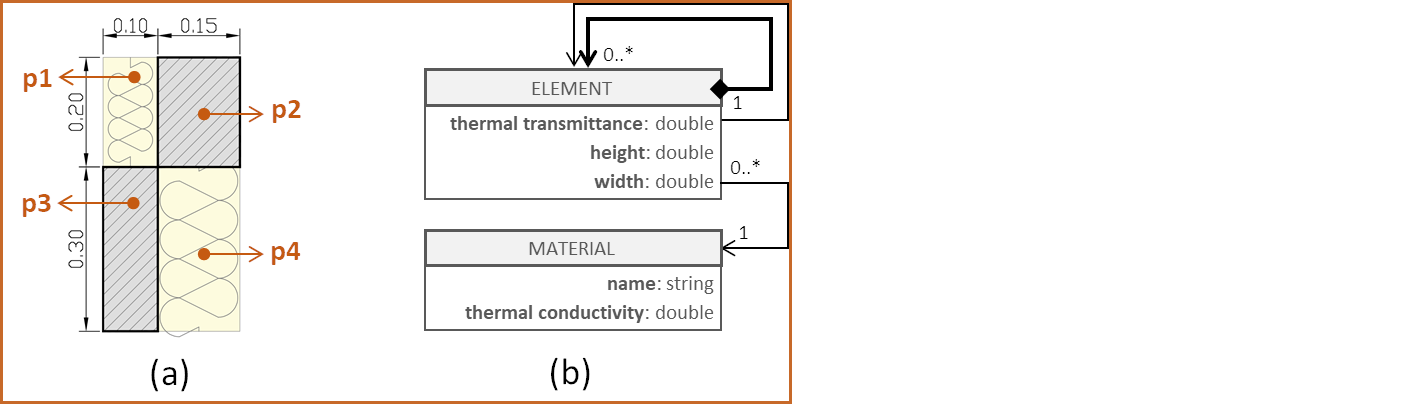
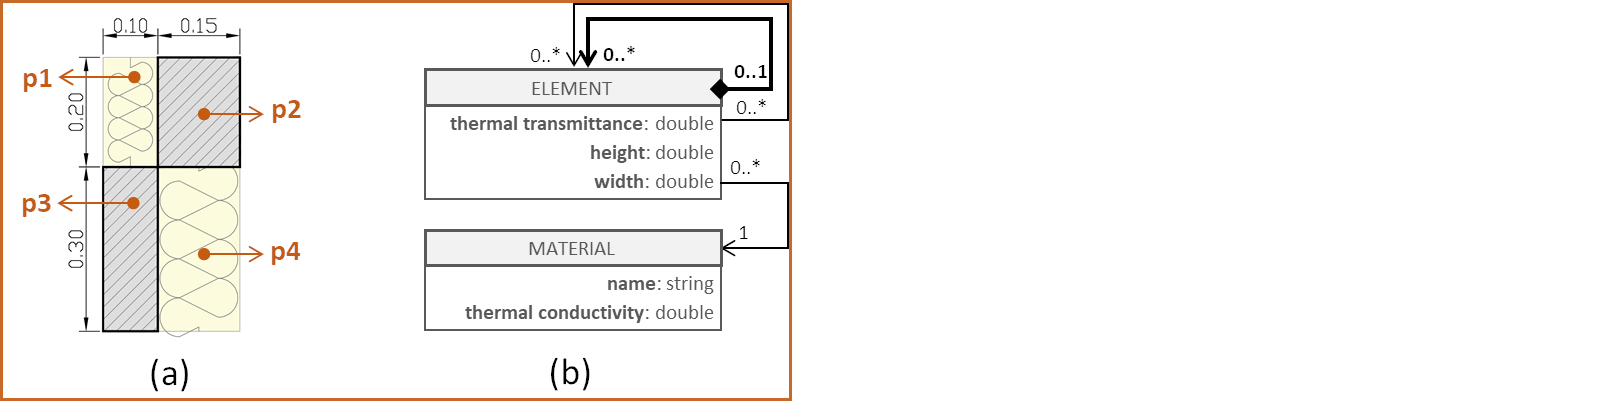
Update of UC4 and images for the others

diff --git a/README.md b/README.md
@@ -5,17 +5,15 @@ This document contains additional data supporting the Paper “Digitalising Guid
 
 It is to be noted that Section 6.7.2 describes a simplified method for the calculation of the total thermal resistance of a building component. This method is based on one typical part of the component, not on the entire component. For detailed calculations taking thermal bridges into account there is the ISO 10211. 
 
-![Walls](/UC/UC0_walls_.png)
-
+![Walls](UC/UC0_walls.png)
 *Fig.1. Typical wall footprints: (a) massive timber with an insulation layer, (b) acoustically decoupled wall with armed concrete inner shell, timber outer shell, and mineral wool as thermal insulation and acoustic dampener.*
 
 Fig.1 demonstrates the difference between the entire construction, e.g., wall, and a representative, or typical, part. For example, Fig.1(a) shows a 0.40m section of the wall that contains both a timber column and the insulation between two columns. This section represents the inhomogeneous layer with the correct ratio of materials, which is enough for the application of the guideline. Fig.1(b) shows a more complex construction with three inhomogeneous layers. The representative section here is larger, 1.00m long, since it requires all combinations of inhomogeneities to be accounted for.
 
-![Wall decomposition](/UC/UC0_wall_decomposition_.png)
+![Wall decomposition](UC/UC0_wall_decomposition.png)
+*Fig.2. Wall decomposition: (a) in typical sections, (b) in geometric profiles, (c) in cells according to ISO 6946:2017, Section 6.7.2.*
 
-*Fig.2. Wall decomposition: (b) in geometric profiles, (c) in cells according to ISO 6946:2017, Section 6.7.2.*
-
-The next question is one of modelling. Fig.2 shows the different ways the wall from Fig.1(b) can be decomposed into model elements. The model in Fig.2(b) groups adjacent elements of the same material, while the model in Fig.2(c) decomposes the typical section in layers and sections in accordance with ISO 6946:2017, Section 6.7.2.2, Figure 1. Consequently, the two approaches produce models of vastly different sizes.
+The next question is one of modelling. Fig.2 shows the different ways the wall from Fig.1(b) can be decomposed into model elements. The model in Fig.2(b) groups adjacent elements of the same material, while the model in Fig.2(c) decomposes the typical section in layers and sections in accordance with ISO 6946:2017, Section 6.7.2.2, Figure 1. Consequently, the two approaches produce models of vastly different structure and size.
 
 However, a model resulting from Fig.2(b) can be adapted to fulfil the requirements of the model resulting from Fig.2(c). We will demonstrate this by applying the template we presented in the referenced paper (see also Fig.3) to the following four use cases:
 - **Use Case 1**: Very small generic data model, allowing significant modification. A step-by-step application.
@@ -24,59 +22,83 @@ However, a model resulting from Fig.2(b) can be adapted to fulfil the requiremen
 - **Use Case 4**: IFC, simple example, allowing modification.
 
 
-![Templates](/UC4/iso6946_templates.png)
-*Fig.3. The applicable templates as constructed in the accompanying paper.*
+![Templates](UC4/iso6946_templates.png)
+*Fig.3. The applicable template as constructed in the accompanying paper.*
 
-### Use Case 1: A Step By Step Application of ISO 6946:2017, Section 6.7.2
+The application of templates (see Fig.3) proceeds as follows:
+- [x] Each template element is applied to a small representative part of the model **manually**.
+- [x] An *application model* is built in the background **automatically**.
+- [x] During model updates, the template is applied as needed **automatically** by utilizing the implicit rules supplied by the user during the manual step. Those rules reside in the application model.
+- [x] During model updates, if there is a rule missing, the user will need to supply **additional manual input** so that the application model can be completed in the background.
+
+The template depicted in Fig.3 contains the following elements:
+- [x] **<ins>E01</ins>**: CUMULATIVE and its relationships (Fig.3(a)),
+- [x] **<ins>E02</ins>**: SECTION and its relationships (Fig.3(a)),
+- [x] **<ins>E03</ins>**: LAYER and its relationships (Fig.3(a)),
+- [x] **<ins>E04</ins>**: CELL and its relationships (Fig.3(a)),
+- [x] **<ins>E05</ins>**: adding / removing a LAYER  (Fig.3(b)),
+- [x] **<ins>E06</ins>**: adding / removing a SECTION  (Fig.3(c)),
+- [x] **<ins>E07</ins>**: adding / removing *both* a LAYER and a SECTION  (Fig.3(d)),
+- [x] **<ins>E08</ins>**: calculating *R<sub>tot</sub>* (Fig.3(a), also see equation (5) in ISO 6946:2017, Section 6.7.2.2),
+- [x] **<ins>E09</ins>**: calculating *R<sub>sect</sub>* (Fig.3(b), the *thermal resistance of a section*, see reference to equation (4) and equation (6) in Section 6.7.2.3),
+- [x] **<ins>E10</ins>**: calculating *R<sub>layer</sub>* (Fig.3(c), the *thermal resistance of a layer*, see equation (7) in Section 6.7.2.4),
+- [x] **<ins>E11</ins>**: calculating *R<sub>tot;lower</sub>* (Fig.3(d), the *lower limit of the total thermal resistance of the construction*, see equation (7) and reference to equation (4) in Section 6.7.2.4),
+- [x] **<ins>E12</ins>**: calculating *R<sub>tot;upper</sub>* (Fig.3(e), the *upper limit of the total thermal resistance of the construction*, see equation (6) in Section 6.7.2.3).
+
+Not depicted in Fig.3 are:
+- [ ] **E13**: the calculation of the error, *R<sub>tot;ratio</sub>* according to Section 6.7.2.1, and
+- [ ] **E14**: the condition that the fractional areas *f<sub>sect</sub>* of all sections should add up to 1 according to Section 6.7.2.2.
+
+
+### Use Case 1: A Step-By-Step Application of ISO 6946:2017, Section 6.7.2
 
 In this use case, we have chosen a very simple inhomogeneous construction, as shown in Fig.UC1.1(a). Each of the four parts, p1 to p4, is homogeneous in itself, consisting either of massive timber (the oblique hatch pattern) or of mineral wool. The data model (see Fig.UC1.1(b)) consists of only two types. Type ELEMENT allows containment or referencing between its instances. Each has its own thermal transmittance, height, and width. Type MATERIAL provides each instance of type ELEMENT with additional information, e.g., its design thermal conductivity.
 
 ![UC4 Initial Situation](UC4/UCx4_1small.png)
-
 *Fig.UC1.1. The initial situation: (a) the inhomogeneous wall and (b) the data model.*
 
-In Fig.UC1.2 we see the instantiation of the data model in Fig.UC1.1(b). We have a hierarchical structure of elements, enabled by the containment relationship. At the top is instance **wall**, which consists of two parts, **wall A** and **wall B**. **Wall A** is comprised of parts **p1** and **p2**, while **wall B** – of parts **p3** and **p4**. Each part references an instance of type MATERIAL. For example, **p1** references **mineral wool**, and **p2** references **massive timber**. From the viewpoint of the architect, for example, this is enough information to describe the wall. However, if we want to prove that the thermal resistance of the entire construction has been calculated in accordance with ISO 6946, we need to apply the relevant template.
+In Fig.UC1.2 we see the instantiation of the data model in Fig.UC1.1(b). This instantiation happens automatically in the background of the application as the user models the wall via the graphic user interface (GUI). In this case, we have a hierarchical structure of elements, enabled by the containment relationship. At the top is instance **wall**, which consists of two parts, **wall A** and **wall B**. **Wall A** is comprised of parts **p1** and **p2**, while **wall B** – of parts **p3** and **p4**. Each part references an instance of type MATERIAL. For example, **p1** references **mineral wool**, and **p2** references **massive timber**. From the viewpoint of the architect, for example, this is enough information to describe the wall. However, if we want to prove that the thermal resistance of the entire construction has been calculated in accordance with ISO 6946, we need to apply the relevant template from Fig.3.
 
-The application of the template involves:
+The application of the template, **manual** or **automatic**, involves:
 
-- **Mappings**: between template elements and model elements.
-- **Annotations**: labelling of attributes as template-specific values (e.g., λ) This includes re-purposing, such as annotating an attribute named **“height”** with a symbol signifying the *lower limit of the total thermal resistance of a construction*, due to the absence of such attributes from the original data model. This makes the attribute’s meaning *context-dependent*. From the viewpoint of the original data model in Fig.UC1.1(b), it still describes the height of an element, from the viewpoint of ISO 6946:2017, Section 6.7.2, it has a new calculation-specific meaning.
+- **Mappings**: between template elements and model elements,
+- **Annotations**: labelling of attributes as template-specific values (e.g., λ) This includes re-purposing, such as annotating an attribute named **“height”** with a symbol signifying the *lower limit of the total thermal resistance of a construction*, due to the absence of such attributes from the original data model. This makes the attribute’s meaning *context-dependent*. From the viewpoint of the original data model in Fig.UC1.1(b), it still describes the height of an element, from the viewpoint of ISO 6946:2017, Section 6.7.2, it has a new calculation-specific meaning,
 - **Instantiation**: generation of new model-specific instances in case there are not enough elements to satisfy the template’s requirements.
 
 ![UC4 Original Model](UC4/UCx4_2.png)
-*Fig.UC1.2. The initial instantiation of the data model in Fig.3(b), consisting of two wall elements and four profile elements.*
+*Fig.UC1.2. The initial instantiation of the data model in Fig.UC1.1(b), consisting of two wall elements and four homogeneous parts.*
 
-We start by applying the SECTION template element to instances **wall A** and **wall B** in Fig.UC1.3. The template itself, with the relevant connections, is shown in Fig.UC1.3(a), while the adapted model is shown in Fig.UC1.3(b). We see that the adaptation includes only annotations: one for the instance **wall B** (as *structure.SECTION*), one for attribute **“thermal resistance”** (as *R<sub>sect</sub>*), and one for attribute **“height”** (as *f<sub>sect</sub>*). The application model in Fig.UC1.9, however, includes multiple additional mappings (see entry 2 and its sub-entries). For example, the containment between **wall** and **wall B** is defined as the implementation of the relationship between template element CUMULATIVE and template element SECTION (thin dashed arrow marked as 2.1 in Fig.UC1.3(b)).
+We start by applying the SECTION template element (**<ins>E02</ins>**) to instances **wall A** and **wall B** in Fig.UC1.3. The template elements, with the relevant connections, are shown in Fig.UC1.3(a), while the adapted model is shown in Fig.UC1.3(b). We see that, on surface level, the adaptation includes just annotations: one for the instance **wall B** (as *structure.SECTION*), one for attribute **“thermal resistance”** (as *R<sub>sect</sub>*), and one for attribute **“height”** (as *f<sub>sect</sub>*). The application model in Fig.UC1.9, however, includes multiple additional mappings (see entry 2 and its sub-entries). For example, the containment between **wall** and **wall B** is defined as the implementation of the relationship between template element CUMULATIVE and template element SECTION (thin dashed arrow marked as 2.1 in Fig.UC1.3(b)). Similarly, the relationships between **wall B**, and parts **p3** and **p4** are handled as implementations of the relationship between SECTION and CELL.
 
 ![UC4 Defining a Section](UC4/UCx4_3.png)
 *Fig.UC1.3. Applying the SECTION template element to a single existing element.*
 
-The next step of the template application is more complex, because it involves multiple elements of the existing model (see Fig.UC1.4). The template element CELL models homogeneous cells in the construction, which makes instances **p1** to **p4** excellent candidates. However, CELL also requires the presence of two attributes, the cell thermal resistance (*R<sub>cell</sub>*) and the design thermal conductivity of the cell’s material (*λ*). In this model, however, those attributes reside in different instances. If we take **p3** as an example, it contains an attribute **“thermal resistance”**, but the attribute **“thermal conductivity”** resides in the instance **massive timber**, which **p3** references.
+The next step of the template application is more complex, because it involves multiple elements of the existing model (see Fig.UC1.4). The template element CELL (**<ins>E4</ins>**) models homogeneous cells in the construction, which makes instances **p1** to **p4** excellent candidates. However, CELL also requires the presence of two attributes, the cell thermal resistance (*R<sub>cell</sub>*) and the design thermal conductivity of the cell’s material (*λ*). In this model, however, those attributes reside in different instances. If we take **p3** as an example, it contains an attribute **“thermal resistance”**, but the attribute **“thermal conductivity”** resides in the instance **massive timber**, which **p3** references.
 
 This results in the template element CELL being applied to *three elements*, **p3**, **massive timber**, and the *reference* between **p3** and **massive timber** simultaneously (see the thick dashed arrows amrked 5 in Fig.UC1.4, and entry 5 in Fig.UC1.9). As an aside, when template element CELL is applied to **p2**, which also references **massive timber**, the application will again include **massive timber**. The reason for this is that each individual template element application is a separate entry in the application model (compare entries 4 and 5 in Fig.UC1.9).
 
-What is also of interest in this application are the relationships between the template elements. While the containment relationship between SECTION and CELL can be directly mapped to the containment relationship between **wall B** and **p3**, the relationship between LAYER and CELL cannot finds its counterpart yet (see entry 5.2 in Fig.UC1.9). This is something that will be added later, once we have handled template element LAYER.
+What is also of interest in this application are the relationships between the template elements. While the containment relationship between SECTION and CELL can be directly mapped to the containment relationship between **wall B** and **p3**, the relationship between LAYER and CELL cannot finds its counterpart yet (see entry 5.2 in Fig.UC1.9). This is something that will be added later, once we have handled template element LAYER (**<ins>E3</ins>**).
 
 ![UC4 Defining a Cell](UC4/UCx4_4.png)
 *Fig.UC1.4. Applying the CELL template element to two existing elements.*
 
-So far, we have applied the template elements SECTION and CELL, because the initial model contains elements that could be easily adapted. However, to perform the calculations according to ISO 6946, we also need to define layers. Since the initial model doesn’t contain any suitable elements, we will, for the first time, generate them. The data model in Fig.UC1.1(a) provides us with only two types. More suitable for our template is ELEMENT. Therefore, we instantiate it twice as **layer 1** and **layer 2**, and generate the necessary relationships, so that **wall** contains both **layer 1** and **layer 2**, while **layer 1** references **p1** and **p3**, and **layer 2** references **p2** and **p4**. The reason why, e.g., **layer 1** cannot contain **p1** is that it is already contained in **wall A**, and the data model forbids non-exclusive containment.
+So far, we have applied the template elements SECTION and CELL, because the initial model contains elements that could be easily adapted. However, to perform the calculations according to ISO 6946, we also need to define layers (**<ins>E3</ins>**). Since the initial model doesn’t contain any suitable elements, we will, for the first time, generate them. The data model in Fig.UC1.1(a) provides us with only two types. More suitable for our template is ELEMENT. Therefore, we instantiate it twice as **layer 1** and **layer 2**, and generate the necessary relationships, so that **wall** contains both **layer 1** and **layer 2**, while **layer 1** references **p1** and **p3**, and **layer 2** references **p2** and **p4**. The reason why, e.g., **layer 1** cannot contain **p1** is that it is already contained in **wall A**, and the data model forbids non-exclusive containment.
 
-This process is described in entry 7 and its sub-entries in the application model in Fig.UC1.9. After generating and connecting the new instances we again annotate them according to the template requirements: for example, **layer 1** as *structure.LAYER*, its attribute **“thermal resistance”** as *R<sub>layer</sub>*, and attribute **“width”** as *d<sub>layer</sub>*. We annotate attribute **“height”** with an *X*, or *not in use*, to avoid potential confusion.
+This process is formalised in entry 7 and its sub-entries in the application model in Fig.UC1.9. After generating and connecting the new instances we again annotate them according to the template requirements: for example, **layer 1** as *structure.LAYER*, its attribute **“thermal resistance”** as *R<sub>layer</sub>*, and attribute **“width”** as *d<sub>layer</sub>*. We annotate attribute **“height”** with an *X*, or *not in use*, to avoid potential confusion.
 
 During the application of the CELL template element, we noted that the relationship between LAYER and CELL could not be applied to the model due to the absence of instances annotated as LAYER (see also entry 5.2 in the application model in Fig.UC1.9). After the application of the LAYER template element, we can add the missing mapping (see the arrow from entry 7.3 to entry 5.2 in Fig.UC1.9), which completes the CELL template element application above.
 
 ![UC4 Defining a Layer](UC4/UCx4_5.png)
 *Fig.UC1.5. Applying the LAYER template element by creating new elements and attaching them to existing ones.*
 
-Next in the template application is the CUMULATIVE element (see Fig.UC1.6). In the template itself, element CUMULATIVE is at the top of the hierarchy, containing both SECTION and LAYER elements. Therefore, the best candidate for it in the model is instance **wall**. In terms of relationships between the CUMULATIVE, SECTION, and LAYER elements, the mapping has already been performed during the application of SECTION and LAYER (e.g., see entries 2.1 and 7.1 in Fig.UC1.9). However, here we encounter another problem: too few attributes. The template requires annotations for at least five elements whereas **wall**, being an instance of type ELEMENT, offers only three attributes, two of which, **“height”** and **“width”** we cannot use. This makes the generation of new instances unavoidable. The result are two additional instances of type ELEMENT, **environment out** and **environment in**.
+Next in the template application is the CUMULATIVE element (**<ins>E1</ins>**, see Fig.UC1.6). In the template itself, element CUMULATIVE is at the top of the hierarchy, containing both SECTION and LAYER elements. Therefore, the best candidate for it in the model is instance **wall**. In terms of relationships between the CUMULATIVE, SECTION, and LAYER elements, the mapping has already been performed during the application of SECTION and LAYER (e.g., see entries 2.1 and 7.1 in Fig.UC1.9). However, here we encounter another problem: too few attributes. The template requires annotations for at least five variables whereas **wall**, being an instance of type ELEMENT, offers only three attributes, two of which, **“height”** and **“width”** we cannot use since they have other functions. This makes the generation of new instances unavoidable. The result are two additional instances of type ELEMENT, **environment out** and **environment in**.
 
-We map template element CUMULATIVE to five model elements simultaneously, the instance **wall**, the two newly generated instances, and the containment relationships between them (see highlighted elements in Fig.UC1.6). Further, we annotate **wall**, **environment out**, and **environment in**, as a group, with *structure.CUMULATIVE* (entry 9.1 in Fig.UC1.9). We annotate the attributes of **environment out** with some of the expected outputs of the ISO 6946 calculation, **“thermal resistance”** as *R<sub>tot;upper</sub>*, **“height”** as *R<sub>tot;lower</sub>*, and **“width”** as an optional control value, *R<sub>tot;ratio</sub>*. For **environment in**, we annotate **“thermal resistance”** as input value *R<sub>si</sub>*, **“height”** as input value *R<sub>se</sub>*, and **“width”** as *not in use*. 
+This necessitates the mapping of template element CUMULATIVE to five model elements simultaneously, the instance **wall**, the two newly generated instances, and the containment relationships between them (see highlighted elements in Fig.UC1.6). Further, we annotate **wall**, **environment out**, and **environment in**, as a group, with *structure.CUMULATIVE* (entry 9.1 in Fig.UC1.9). We annotate the attributes of **environment out** with some of the expected outputs of the ISO 6946 calculation, **“thermal resistance”** as *R<sub>tot;upper</sub>*, **“height”** as *R<sub>tot;lower</sub>*, and **“width”** as an optional control value, *R<sub>tot;ratio</sub>*. For **environment in**, we annotate **“thermal resistance”** as input value *R<sub>si</sub>*, **“height”** as input value *R<sub>se</sub>*, and **“width”** as *not in use*. 
 
 ![UC4 Defining the Cumulative](UC4/UCx4_6.png)
 *Fig.UC1.6. Applying the CUMULATIVE template element to an existing element and extending it by two further elements.*
 
-Finally, to comply fully with ISO 6946:2017, Section 6.7.2, we need to perform a conversion. The reasoning is as follows. In the relevant calculations in the guideline, a layer’s width is considered with its measure unaltered (in this use case, in m), but a section’s height is considered as a *share* of the height of the entire construction under consideration. This is represented by the equation *Condition 1* in Fig.UC1.7. For example, for **wall A**, this means that attribute **“height”**, annotated as *f<sub>sect</sub>*, cannot be taken as it is, as 0.20m, but rather as the share of the height of **wall**, which is 0.50m. This requires a transformation from height in m to a unitless share measure (see equation *Transform 1* in Fig.UC1.7 and entry 10 in Fig.UC1.9) by means of dividing the height of **wall A** by the height of **wall**. The same conversion has to be performed for **wall B**. In this way **wall A's** height of 0.20 m is converted to a 0.40 share, and **wall B's** height of 0.30 m is converted to a 0.60 share of the entire construction.
+Finally, to comply fully with ISO 6946:2017, Section 6.7.2, we need to perform a conversion. The reasoning is as follows. In the relevant calculations in the guideline, a layer’s width is considered with its measure unaltered (in this use case, in m), but a section’s height is considered as a *share* of the height of the entire construction under consideration. This is represented by the equation *Condition 1* in Fig.UC1.7 (see also template element **E14**). For example, for **wall A**, this means that attribute **“height”**, annotated as *f<sub>sect</sub>*, cannot be taken as it is, as 0.20m, but rather as the share of the height of **wall**, which is 0.50m. This requires a transformation from height in m to a unitless share measure (see equation *Transform 1* in Fig.UC1.7 and entry 10 in Fig.UC1.9) by means of dividing the height of **wall A** by the height of **wall**. The same conversion has to be performed for **wall B**. In this way **wall A's** height of 0.20 m is converted to a 0.40 share, and **wall B's** height of 0.30 m is converted to a 0.60 share of the entire construction.
 
 ![UC4 Re-calculations](UC4/UCx4_7.png)
 *Fig.UC1.7. Adding a calculation to fulfil a condition attached to the SECTION template element.*
@@ -87,53 +109,71 @@ The final result of the model’s adaptation to the guideline is shown in Fig.UC
 *Fig.UC1.8. The final result of applying the template.*
 
 ![UC4 Application Model](UC4/UCx4_9.png)
-
 *Fig.UC1.9. The template application model.*
+
+After completing the manual application of template elements, accompanied by the automatic generation of the model application model in Fig.UC1.9, we have reached the phase of **automatic updating**. Let us assume that the user edits the model by adding complexity to the wall. Now that we have applied the template to the model, this editing step can be performed in two different ways. First, if the user wishes to include another portion of the wall in the calculation of the wall’s total thermal resistance, template element **<ins>E06</ins>** can be used to add another SECTION. In Fig.UC1.10 the relevant template element is in (a) and the automatically updated model, with the new instances highlighted, is in (b). Second, if the user only wishes to add another part to the wall without affecting the calculation, the new instance can be added without the involvement of the template (see Fig.UC1.11). This choice can be implemented via the GUI of the authoring software.
 
 ![UC4 Updating the Model 1](UC4/UCx4_10.png)
 *Fig.UC1.10. Updating the model after template application: adding a section automatically.*
 
+In both cases we end up with a new instance **wall C**. However, in the first case, with the involvement of the template application model, the system automatically “knows” that a section in this context requires two cells, and that each cell is also contained in a separate layer (see the logic flow indicated by the arrows in Fig.UC1.12). ). This leads to the automatic generation of new instances and the relationships between them, and the automatic mapping and annotation of those by the relevant template elements.
+
 ![UC4 Updating the Model 2](UC4/UCx4_11.png)
-*Fig.UC1.11. Updating the model after template application: adding an independent element.*
+*Fig.UC1.11. Updating the model after template application: adding an element independent from the template.*
 
 ![UC4 Application Model Update](UC4/UCx4_12.png)
-
 *Fig.UC1.12. The template application model: adding a section automatically.*
+
+When listing all separate template elements we mentioned quite a few calculations (e.g., **<ins>E08</ins>** to **E13**), but have not addressed them in any of the steps we just described. The reason for this is that the mappings and annotations recorded in our application model, together with the internal template mappings depicted in Fig.3, are sufficient to define the input and output of each individual call of any of those calculations completely automatically, without any further input from the user.
+
+For example, let us examine **<ins>E8</ins>**, the calculation of *R<sub>sect</sub>*, the thermal resistance of a section, in **wall B**. The formalisation of this calculation from the relevant equation in ISO 6946 is discussed at length in the paper. As input, this calculation requires the thermal resistance *R<sub>cell</sub>* of all cells contained in the section, in this case **p3** and **p4**, and the internal and external surface resistance, *R<sub>si</sub>* and *R<sub>se</sub>*, respectively. 
+
+![UC4 Calculation Call](UC4/UCx4_13.png)
+*Fig.UC1.13. Calling the calculation of the thermal resistance of a section via the template application model.*
+
+The logical chain starts with the output, *R<sub>sect</sub>*, in instance **wall B** (annotated as 1 in Fig.UC1.13). From there, we look for the corresponding CUMULATIVE element, in this case **wall**, which by template definition contains *R<sub>si</sub>* and *R<sub>se</sub>* (follow the arrows annotated as 2 in Fig.UC1.13). Once *R<sub>si</sub>* and *R<sub>se</sub>* have been located in instance **wall**, they can be fed as input into the equation.
+
+Next, in order to locate the thermal resistance *R<sub>cell</sub>* of each cell contained in **wall B**, we follow all implementations of the relationship between SECTION and CELL (annotated as 3 and 4 in Fig.UC1.13). Those lead us to instances **p3** and **p4**, where we locate the attribute with the relevant annotation, i.e., **"thermal resistance"**, and feed its value as input into the equation.
+
+In this way, *any* equation linked to the template can be called multiple times for multiple elements (e.g., **wall A**, **wall B**, and **wall C**) with the correct input without the need for the current user or the person performing the initial manual mapping to know *any* of the calculation logic or to interact with it in any way.
 
 ### Use Case 2: ISO 6946:2017, Section 6.7.2 applied to a Generic Data Model
 
 The second use case involves the modelling of the wall presented in Fig.1(a). We have chosen a fairly generic data model that could represent the architect’s view. It is shown in the box in Fig.3(a). Abstract type *Element* can have *Data* attached to it.
 
 ![Class and Object Diagrams](UC/UC1_01b.png)
-*Fig.3. A generic data model (a) and one possible instantiation (b).*
+*Fig.UC2.1. A generic data model (a) and one possible instantiation (b).*
 
 ![Adapted Model](UC/UC1_02.png)
-*Fig.4. The adapted model.*
+*Fig.UC2.2. The adapted model.*
 
 ![Adapted Model w Connectivity](UC/UC1_03.png)
-*Fig.5. The adapted model with full connectivity.*
+*Fig.UC2.3. The adapted model with full connectivity.*
 
-### Use Case 2: ISO 6946:2017, Section 6.7.2 applied to an unsuitable model
+### Use Case 3: ISO 6946:2017, Section 6.7.2 applied to an unsuitable model
+
+![Wall setup](UC/UC3_00.png)
+*Fig.UC3.1. Wall decomposition: (a) modelling the the inhomogeneous layer, (b) modelling the profiles in the inhomogeneous layer, (c) a typical section, (d) modelling the structure for ISO 6946 for the typical section.*
 
 ![Class and Object Diagrams](UC/UC3_01.png)
-*Fig.6. The wall construction (a), the corresponding data model (b) and one possible instantiation (c).*
+*Fig.UC3.1. The wall construction (a), the corresponding data model (b) and one possible instantiation (c).*
 
 ![Adapted Model](UC/UC3_02.png)
-*Fig.7. Model adaptation: step 1.*
+*Fig.UC3.2. Model adaptation: step 1.*
 
 ![Full Adapted Model](UC/UC3_03.png)
-*Fig.8. Model adaptation: step 2.*
+*Fig.UC3.3. Model adaptation: step 2.*
 
-### Use Case 3: ISO 6946:2017, Section 6.7.2 applied to an IFC Model
+### Use Case 4: ISO 6946:2017, Section 6.7.2 applied to an IFC Model
 
 ![Typical IFC Wall](UC/UC2_01.png)
-*Fig.9 An IFC wall with a layered structure.*
+*Fig.UC4.1. An IFC wall with a layered structure.*
 
 ![IFC Wall w Profiles](UC/UC2_02.png)
-*Fig.10 An IFC wall with a profile structure.*
+*Fig.UC4.2. An IFC wall with a profile structure.*
 
 ![IFC Wall ISO 6946](UC/UC2_03.png)
-*Fig.11 An IFC wall adapted for calculating its thermal conductivity according to ISO 6946:2017, Section 6.7.2.*
+*Fig.UC4.3. An IFC wall adapted for calculating its thermal conductivity according to ISO 6946:2017, Section 6.7.2.*
 
 
 
